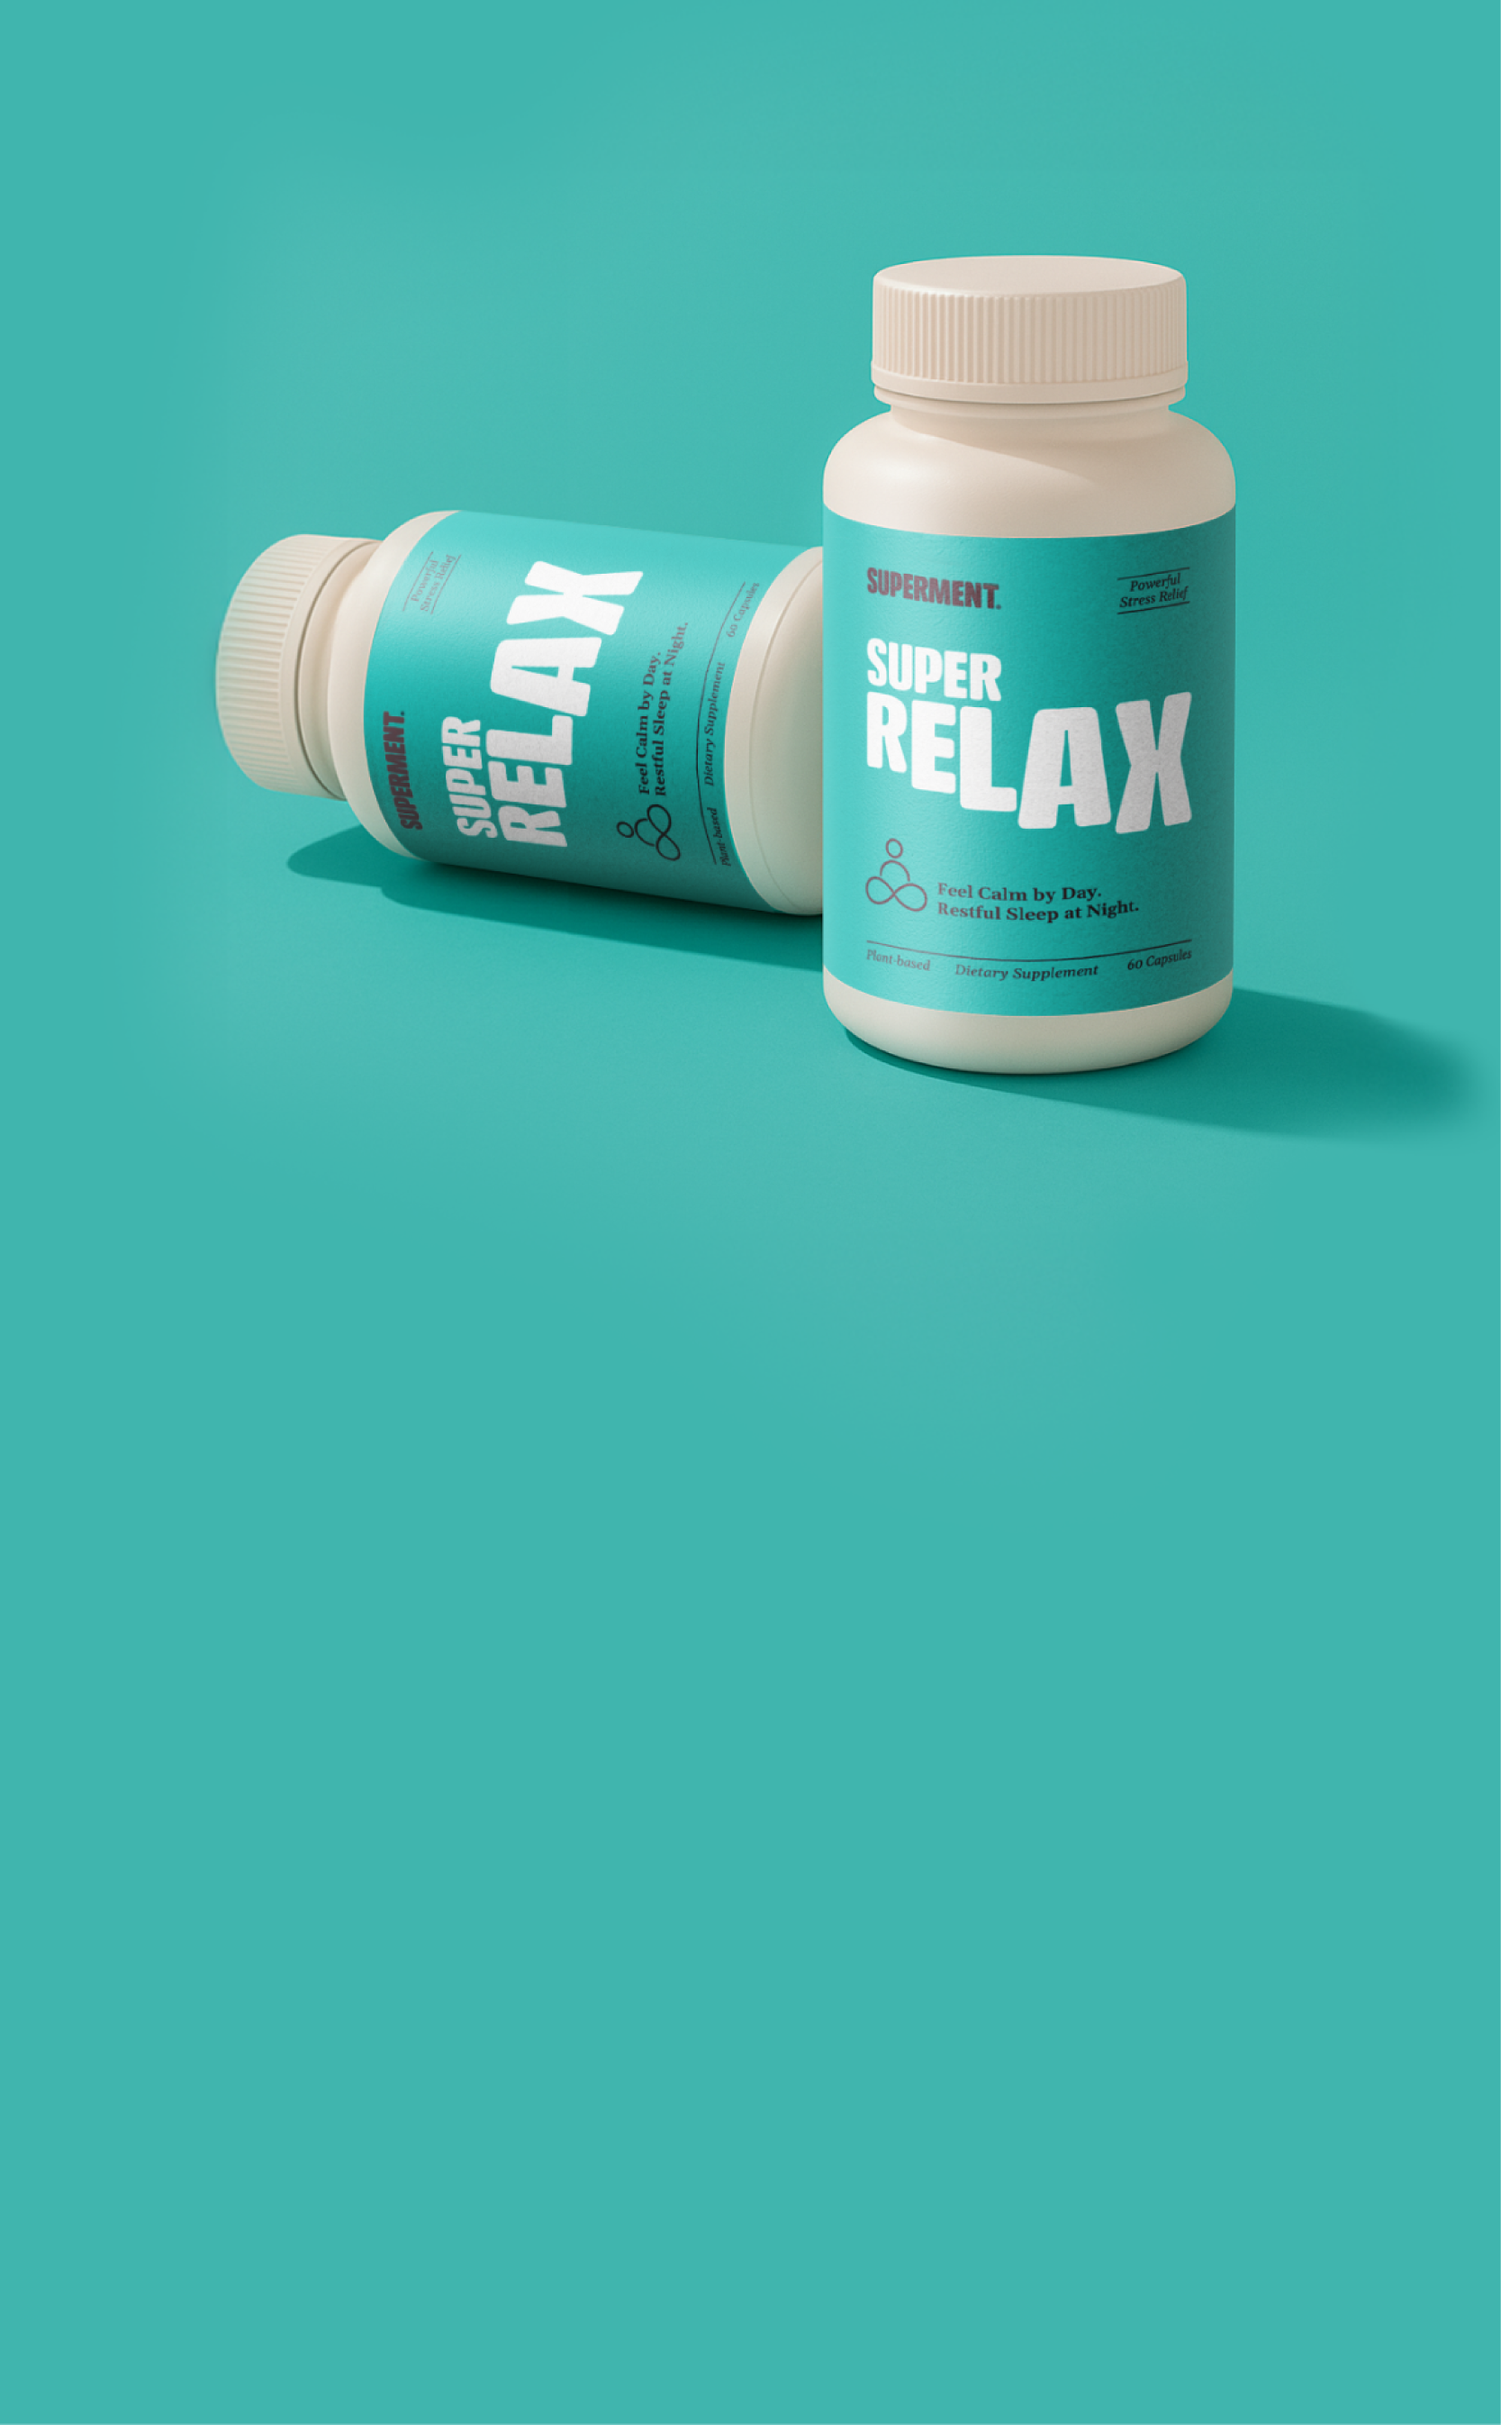
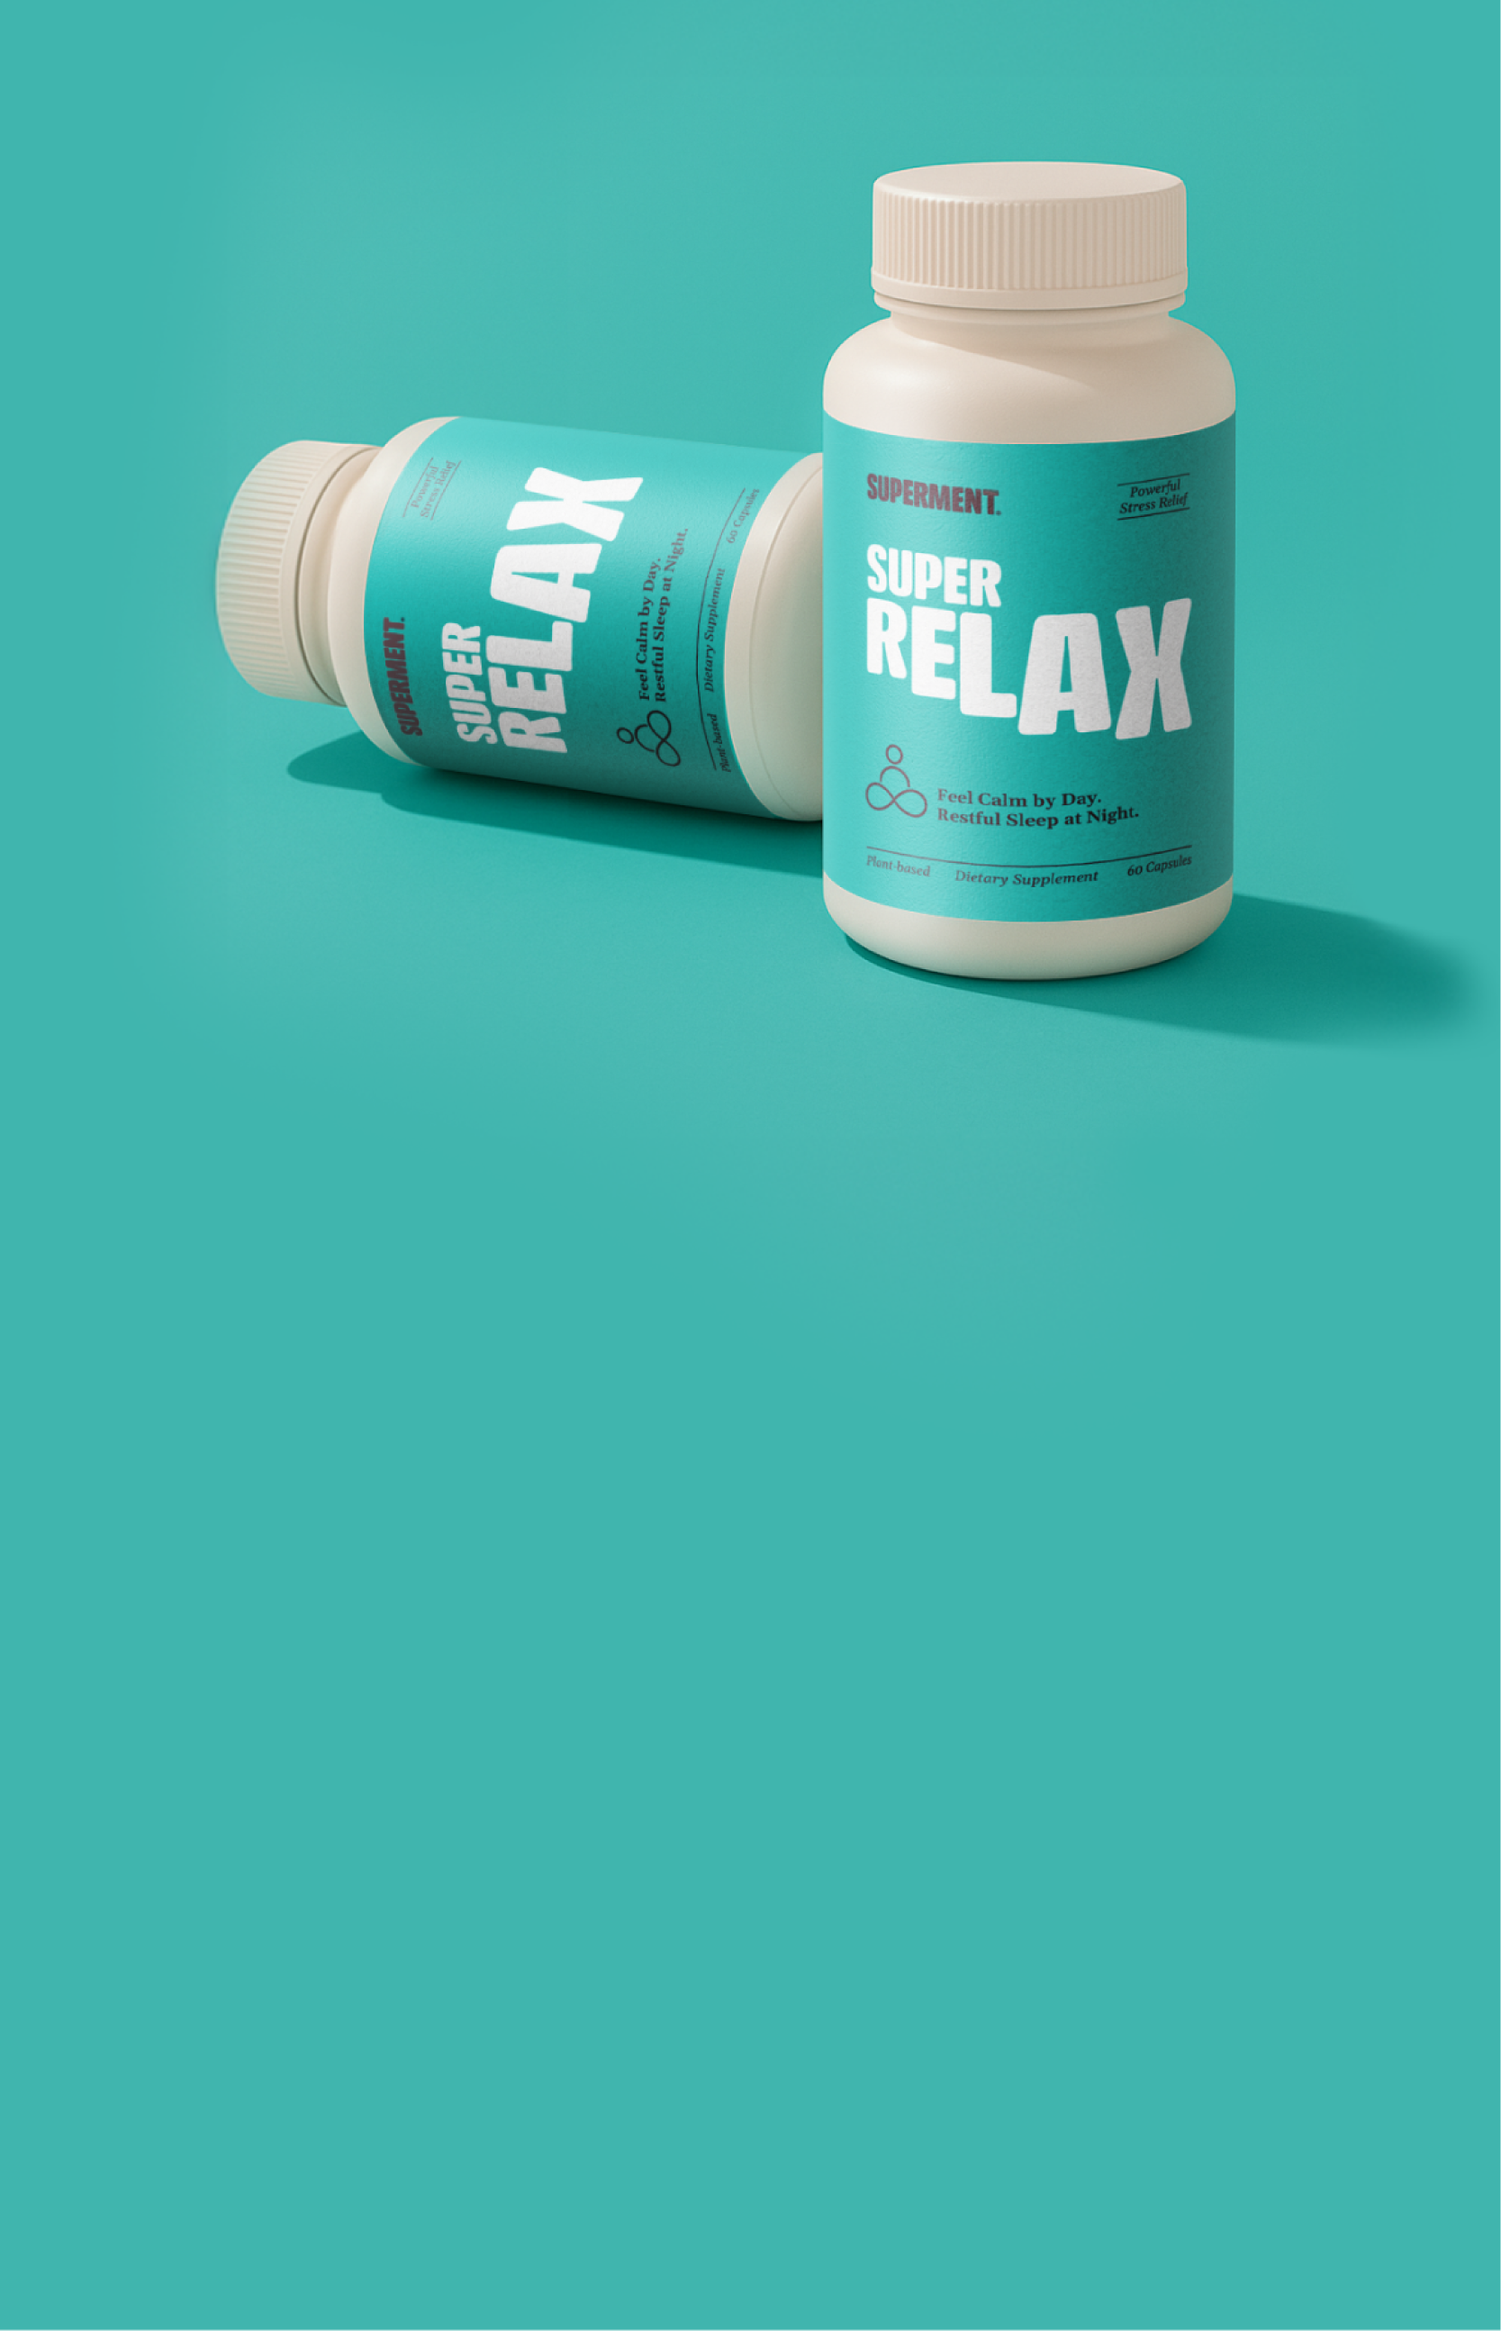
fix: update version

Changed region(s): [[0.1248, 0.0618, 0.967, 0.4946], [0.9982, 0.0, 1.0, 1.0]]

diff --git a/src/components/newPageD/ShopNowD.vue b/src/components/newPageD/ShopNowD.vue
@@ -307,7 +307,7 @@ function toggle(index) {
                     Sedation.
                     No Dependency. No Fog.</p>
                 <ShopButton textColorClass="text-[#370F1E]" iconColorClass="text-[#370F1E]" :show-icon="false"
-                    productId="prod_SbKYsQrxStW8wB"
+                    productId="prod_T2jNgj5cCjXcvG"
                     class="h-[60px] w-[321px] bg-gradient-to-br from-yellow-400 to-yellow-500 rounded-tr-[20px]  shadow-[0px_4px_10px_0px_rgba(77,188,182,1.00)] justify-center rounded mt-3">
                     <div class="flex flex-row items-center justify-center gap-3">
                         <svg xmlns="http://www.w3.org/2000/svg" width="28" height="27" viewBox="0 0 27 27" fill="none">
@@ -411,7 +411,7 @@ function toggle(index) {
 
                     </div>
 
-                    <ShopButton textColorClass=" text-[#370F1E]" :show-icon="false" productId="prod_SbKa8ag01A2TGX"
+                    <ShopButton textColorClass=" text-[#370F1E]" :show-icon="false" productId="prod_T2jOmiPYB2SrZd"
                         class="h-[66px] w-[145px] shadow-md bg-[linear-gradient(132deg,#FFDC03_2.9%,#C9B11C_94.39%)] !rounded-[20px] justify-between -mt-[14px]">
                         <div class="flex flex-row items-start justify-end">
                             <svg xmlns="http://www.w3.org/2000/svg" width="31" height="31" viewBox="0 0 28 27"
@@ -452,7 +452,7 @@ function toggle(index) {
                         </div>
                     </div>
 
-                    <ShopButton textColorClass=" text-[#370F1E]" :show-icon="false" productId="prod_SbKaRuJpDVBEzx"
+                    <ShopButton textColorClass=" text-[#370F1E]" :show-icon="false" productId="prod_T2jPp4I1S0cfol"
                         class="h-[66px] w-[145px] shadow-md !rounded-[20px] bg-[linear-gradient(132deg,#FFDC03_2.9%,#C9B11C_94.39%)] justify-betwee -mt-[14px]">
                         <div class="flex flex-row items-start justify-end">
                             <svg xmlns="http://www.w3.org/2000/svg" width="31" height="31" viewBox="0 0 28 27"

diff --git a/src/pages/superRelax.vue b/src/pages/superRelax.vue
@@ -9,7 +9,7 @@ import BannerModal from '../components/BannerModal.vue';
 import ShopNowD from '../components/newPageD/ShopNowD.vue';
 import DepoimentsD from '../components/newPageD/DepoimentsD.vue';
 import { ref, onMounted, onBeforeUnmount } from 'vue'
-import SuperFooter from '../components/SuperFooter.vue';
+import SuperFooter2 from '../components/SuperFooter2.vue';
 
 const IngredientsCarousel = defineAsyncComponent(() => import('../components/IngredientsCarousel.vue'))
 const FAQ = defineAsyncComponent(() => import('../components/Faq.vue'))
@@ -141,15 +141,14 @@ onBeforeUnmount(() => {
   ]" />
   <section class="firtsection bg-[#50b5b2]">
     <div class="relative
-        -top-[28px]
         z-0
         bg-top
         bg-no-repeat bg-contain lg:bg-cover
-        md:bg-[100%_-70%]
+        md:bg-[100%]
         bg-[url('/assets/hero_relax.webp')]
         md:bg-[url('/assets/hero_relax_desk.webp')]
         ">
-      <div class="w-full lg:w-[750px] pl-0 lg:pl-[7.5rem] pb-0 lg:pb-[36px]">
+      <div class="w-full lg:w-[750px] pl-0 lg:pl-[7.5rem] pb-[25px] lg:pb-[36px]">
         <div class="px-12">
           <div class="text-[#370F1E] gap-[120px] lg:gap-[20px] flex flex-col">
             <p class="italic sm:hidden font-gelasio mt-[60px] text-[13px] leading-[15px] font-bold">A Powerful <br>Plant-Based
@@ -552,7 +551,7 @@ onBeforeUnmount(() => {
   </div>
   <div class="bg-[#370F1E] w-full">
     <div class="max-w-[330px] sm:max-w-[950px] mx-auto">
-      <SuperFooter />
+      <SuperFooter2 />
     </div>
   </div>
   <LazyIsland>

diff --git a/src/components/SuperFooter2.vue b/src/components/SuperFooter2.vue
@@ -55,13 +55,13 @@
         <ul class="text-[#FFF] w-full flex flex-col gap-1">
           <li class="flex items-center gap-2 border-b border-[#FFF] pb-3 h-[32px]">
             <span class="w-8 h-8 flex items-center justify-center">
-              <img src="@/assets/image/icons/email1.webp" alt="email icon" loading="lazy" class="w-6 h-6" />
+              <img src="@/assets/image/icons/email.webp" alt="email icon" loading="lazy" class="w-6 h-6" />
             </span>
             <a href="mailto:superhelp@superment.co" class="label">superhelp@superment.co</a>
           </li>
           <li class="flex items-center gap-2 border-b border-[#FFF] py-1 pb-3 h-[32px] mt-1">
             <span class="w-8 h-8 flex items-center justify-center">
-              <img src="@/assets/image/icons/instagram.png" alt="instagram icon" loading="lazy"  class="w-6 h-6" />
+              <img src="@/assets/image/icons/instagran.webp" alt="instagram icon" loading="lazy"  class="w-6 h-6" />
             </span>
             <a href="https://instagram.com/superment.co" target="_blank" class="label">@superment.co</a>
           </li>

diff --git a/src/components/SuperHeader2.vue b/src/components/SuperHeader2.vue
@@ -182,14 +182,6 @@ onMounted(async () => {
   padding-left: 0px;
 }
 
-.marquee__item:last-child::after {
-  content: "|";
-  display: inline-block;
-  margin-left: 16px;
-  margin-right: 0;
-  letter-spacing: 0;
-}
-
 .marquee__group>.marquee__item:first-child {
   padding-left: 0px;
 }

diff --git a/src/components/NotificationDisplay.vue b/src/components/NotificationDisplay.vue
@@ -50,8 +50,6 @@ const notificationsList = [
 
 const visibleNotifications = ref([])
 let currentIndex = 0
-
-// Função para scroll suave até o botão com id "id-shop-now"
 const scrollToShopNow = () => {
   const el = document.getElementById('id-shop-now')
   if (el) {

diff --git a/src/router/index.js b/src/router/index.js
@@ -38,6 +38,7 @@ function setThemeColor(color) {
 router.afterEach((to) => {
   const themeColorMap = {
     supersleep: '#E1DCCD',
+    superrelax: '#E1DCCD',
     terms: '#E1DCCD',
     faq: '#E1DCCD',
     about: '#E1DCCD',

diff --git a/src/styles/superSleep.scss b/src/styles/superSleep.scss
@@ -200,7 +200,6 @@ img.image-forming {
 
 section.ingredients {
     width: 100%;
-    height: 380px;
     display: flex;
     flex-direction: column;
     align-items: center;
